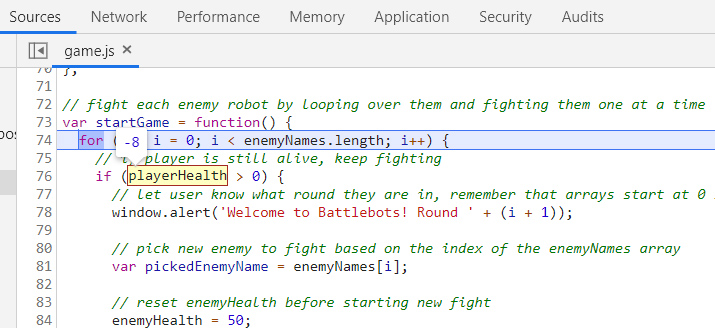
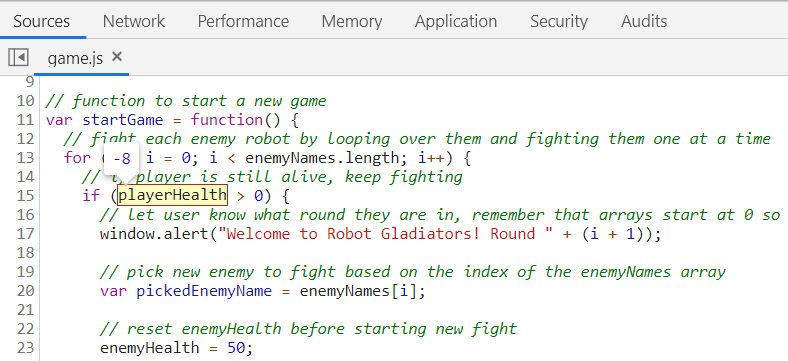
double quotes + new screenshot

Changed region(s): [[0.0, 0.0, 1.0, 1.0], [0.1231, 0.7317, 0.9538, 0.8537], [0.1231, 0.8841, 0.7077, 1.0]]

diff --git a/03-javascript/content/lesson-3-multi-functions.md b/03-javascript/content/lesson-3-multi-functions.md
@@ -83,7 +83,7 @@ Let's start making edits to our `game.js` file. Wrap the current `for` loop in a
 var startGame = function() {
   for (var i = 0; i < enemyNames.length; i++) {
     if (playerHealth > 0) {
-      window.alert('Welcome to Robot Gladiators! Round ' + (i + 1));
+      window.alert("Welcome to Robot Gladiators! Round " + (i + 1));
 
       var pickedEnemyName = enemyNames[i];
 
@@ -92,7 +92,7 @@ var startGame = function() {
       fight(pickedEnemyName);
     }
     else {
-      window.alert('You have lost your robot in battle! Game Over!');
+      window.alert("You have lost your robot in battle! Game Over!");
       break;
     }
   }
